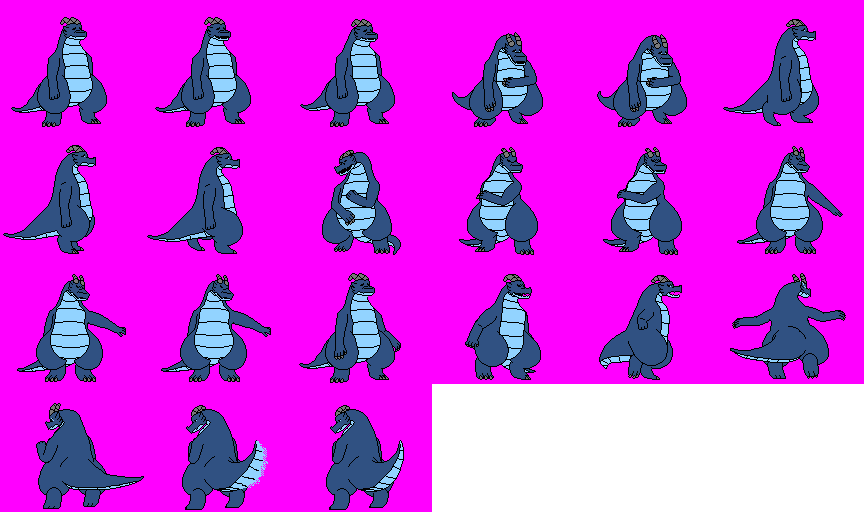
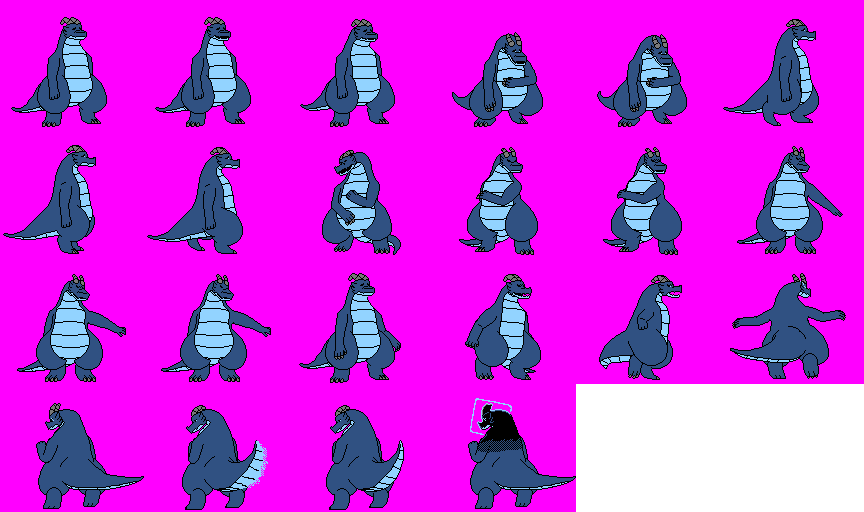
Baseball: Added Visual and audio improvements when hitting a critical.

Changed region(s): [[0.5, 0.75, 0.6875, 1.0]]

diff --git a/src/combat/projectiles/baseball.cpp b/src/combat/projectiles/baseball.cpp
@@ -275,6 +275,9 @@ void Baseball::criticalHit() {
   owner->intangible = true;
   xander->intangible = true;
 
+  terminal_velocity = 600;
+  velocity = 800;
+
   data.stun_type = StunType::STAGGER;
   use_crit_effect = true;
 
@@ -290,6 +293,8 @@ void Baseball::critEffect() {
   assert(xander->action != NULL);
   if (xander->action->phase == ActionPhase::ACTIVE) {
     CombatHandler::raise<SetBarCB>(CombatEVT::BAR_SET, 0.0f, 48.0f);
+
+    xander->sprite = &Xander::atlas.sprites[21];
     end_crit_effect = true;
 
     sfx->play("bat_swing_hit", 1.20);
@@ -301,7 +306,7 @@ void Baseball::critEnd() {
   CombatHandler::raise<StartToastCB>(CombatEVT::START_TOAST, 1);
   Game::bgm->resume();
 
-  sfx->play("bat_swing_clash");
+  sfx->play("baseball_critical");
   Combatant::sfx.play("technical");
 
   if (owner->action->id != ActionID::GHOST_STEP) {
